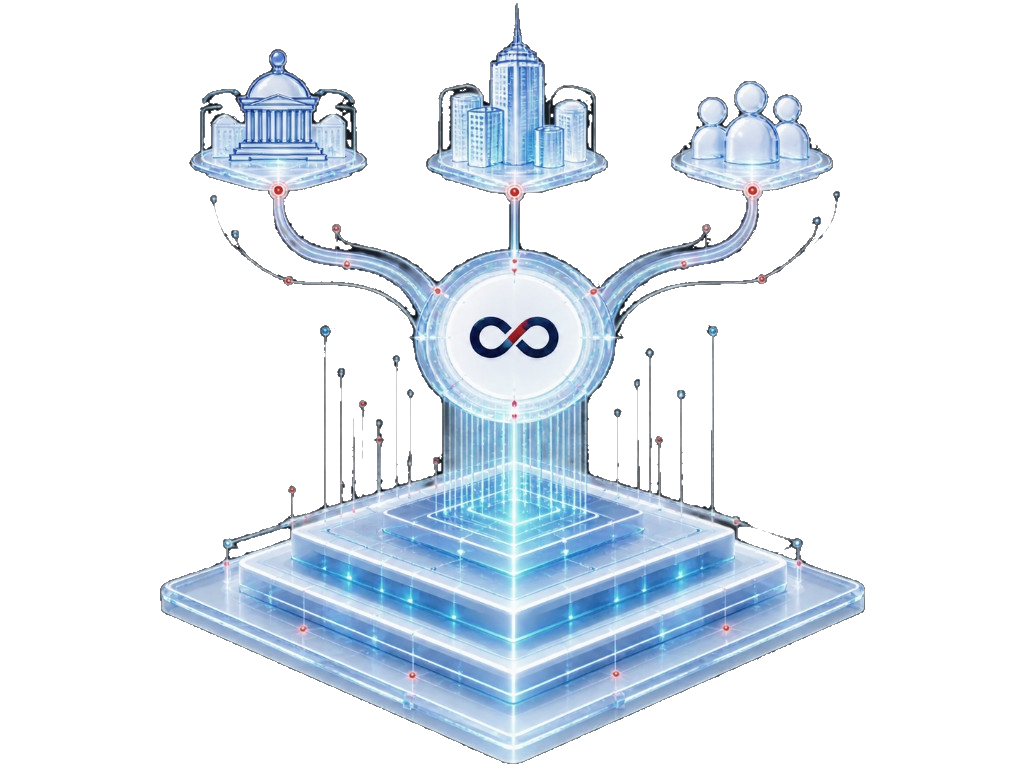
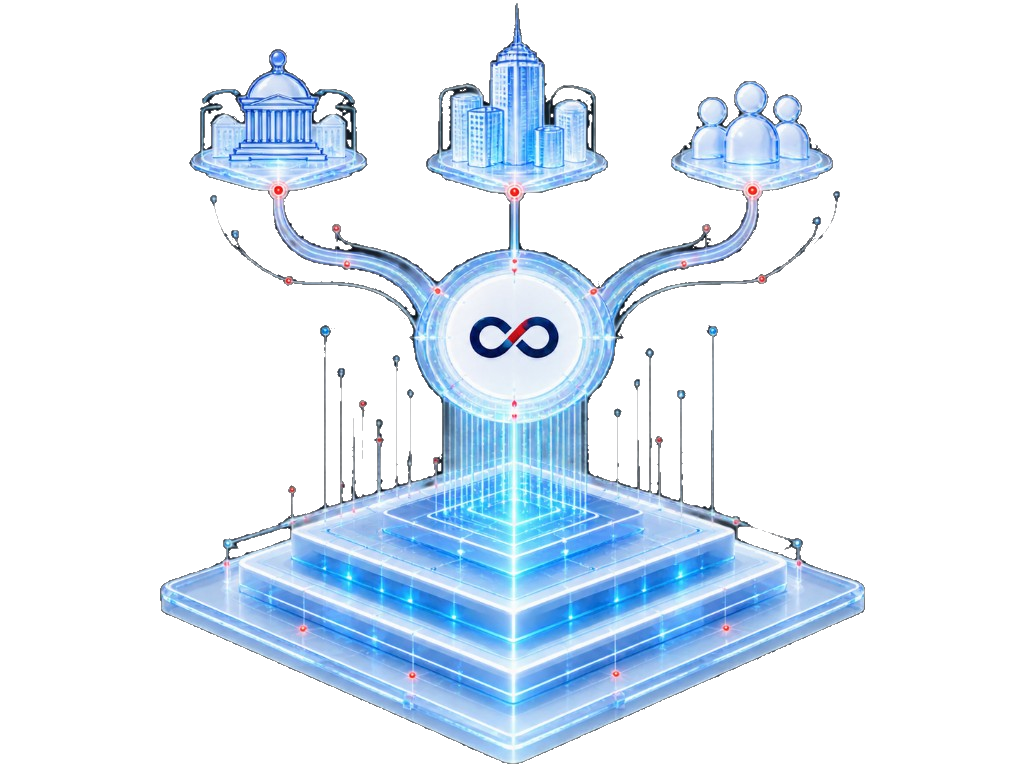
Restore company sculpture colour and sit them on the page.

diff --git a/src/app/(site)/company/page.tsx b/src/app/(site)/company/page.tsx
@@ -288,7 +288,8 @@ export default async function CompanyPage() {
       />
 
       <PageHero
-        title="Company"
+        eyebrow="Company"
+        title="Agrayian AI Labs"
         subtitle="Responsible intelligence for stronger organisations and public systems."
         description={intro.introduction}
         primaryCta={{
@@ -486,7 +487,7 @@ export default async function CompanyPage() {
                     Leadership
                   </Link>
                 ) : null}
-                <p className="mt-5 inline-flex items-start gap-2 rounded-full border border-[var(--border-soft)] bg-white/70 px-3.5 py-2 text-xs text-muted-light shadow-sm">
+                <p className="mt-5 flex items-start gap-2 rounded-xl bg-[#f3f6f9] px-4 py-3 text-xs leading-relaxed text-muted-light">
                   <Bell className="mt-0.5 h-3.5 w-3.5 shrink-0 text-brand" />
                   Opportunities appear only when verified openings are available.
                 </p>
@@ -503,7 +504,7 @@ export default async function CompanyPage() {
                 <p className="mt-4 flex-1 text-sm leading-relaxed text-muted-light">
                   {intro.partnerEcosystem}
                 </p>
-                <p className="mt-5 inline-flex items-start gap-2 rounded-full border border-[var(--border-soft)] bg-white/70 px-3.5 py-2 text-xs text-muted-light shadow-sm">
+                <p className="mt-5 flex items-start gap-2 rounded-xl bg-[#f3f6f9] px-4 py-3 text-xs leading-relaxed text-muted-light">
                   <Bell className="mt-0.5 h-3.5 w-3.5 shrink-0 text-brand" />
                   Partnerships appear only when verified collaborations are
                   active.

diff --git a/src/config/mockup-assets.ts b/src/config/mockup-assets.ts
@@ -43,11 +43,11 @@ export const mockupAssets = {
   insightsCardAudit: "/mockups/insights-card-audit-page.png",
   insightsCtaShield: "/mockups/insights-cta-shield-clear.png",
   companyHeroHub: "/mockups/company-hero-hub.png",
-  companySculptHeroHub: "/mockups/company-sculpt-hero-hub.png",
-  companySculptResponsible: "/mockups/company-sculpt-responsible.png",
-  companySculptTechnology: "/mockups/company-sculpt-technology.png",
-  companySculptPartnership: "/mockups/company-sculpt-partnership.png",
-  companySculptImpact: "/mockups/company-sculpt-impact.png",
+  companySculptHeroHub: "/mockups/company-sculpt-hero-hub.png?v=color",
+  companySculptResponsible: "/mockups/company-sculpt-responsible.png?v=color",
+  companySculptTechnology: "/mockups/company-sculpt-technology.png?v=color",
+  companySculptPartnership: "/mockups/company-sculpt-partnership.png?v=color",
+  companySculptImpact: "/mockups/company-sculpt-impact.png?v=color",
   homeProduct0: "/mockups/home-product-0.png",
   homeProduct1: "/mockups/home-product-1.png",
   homeProduct2: "/mockups/home-product-2.png",

diff --git a/src/components/visualisations/company/CompanyGlowSculpture.tsx b/src/components/visualisations/company/CompanyGlowSculpture.tsx
@@ -25,7 +25,7 @@ export function CompanyGlowSculpture({
       sizes={sizes}
       style={{ backgroundColor: "transparent" }}
       className={cn(
-        "h-auto w-full bg-transparent object-contain opacity-[0.78] saturate-[0.58]",
+        "h-auto w-full bg-transparent object-contain opacity-[0.78] saturate-[0.75]",
         className,
       )}
     />
